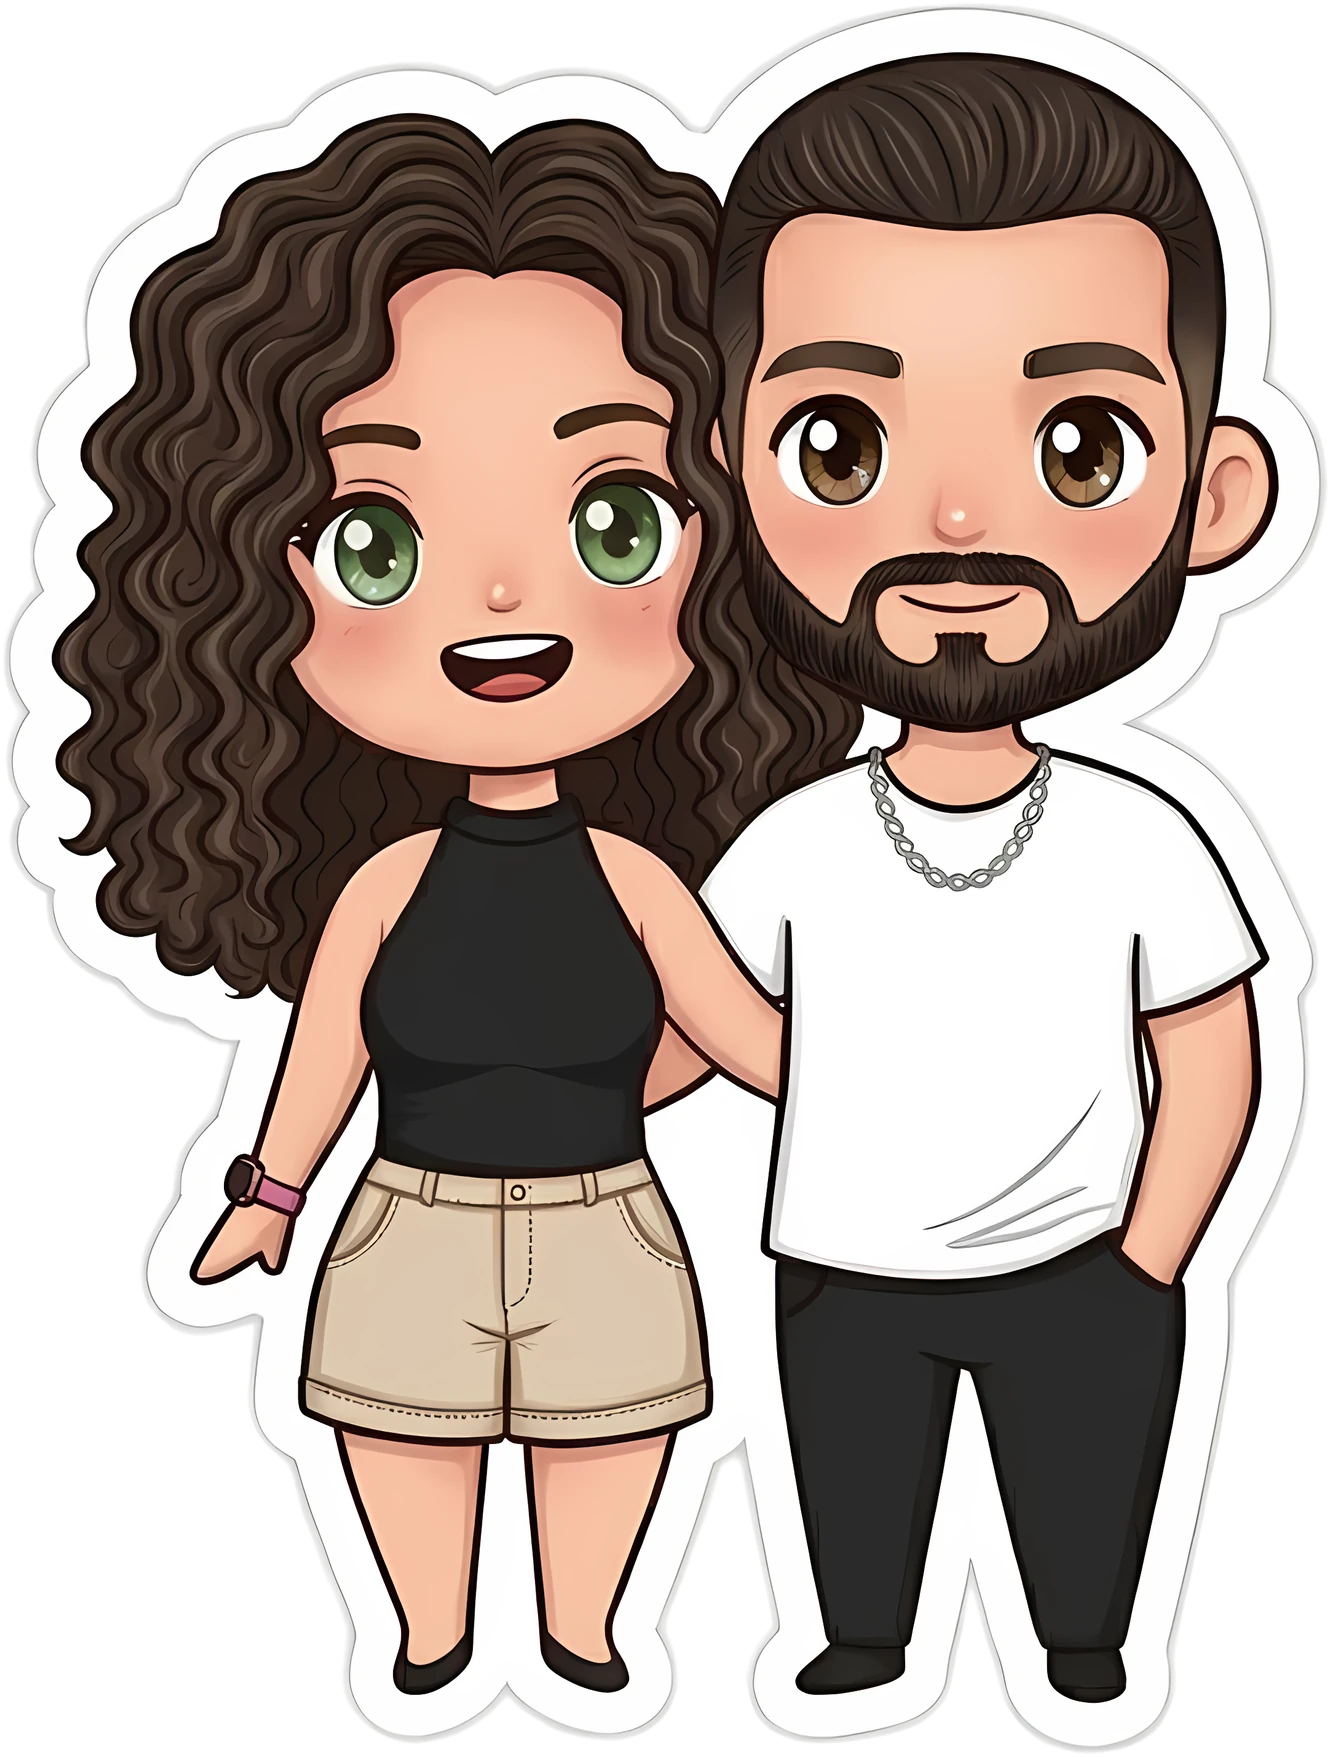
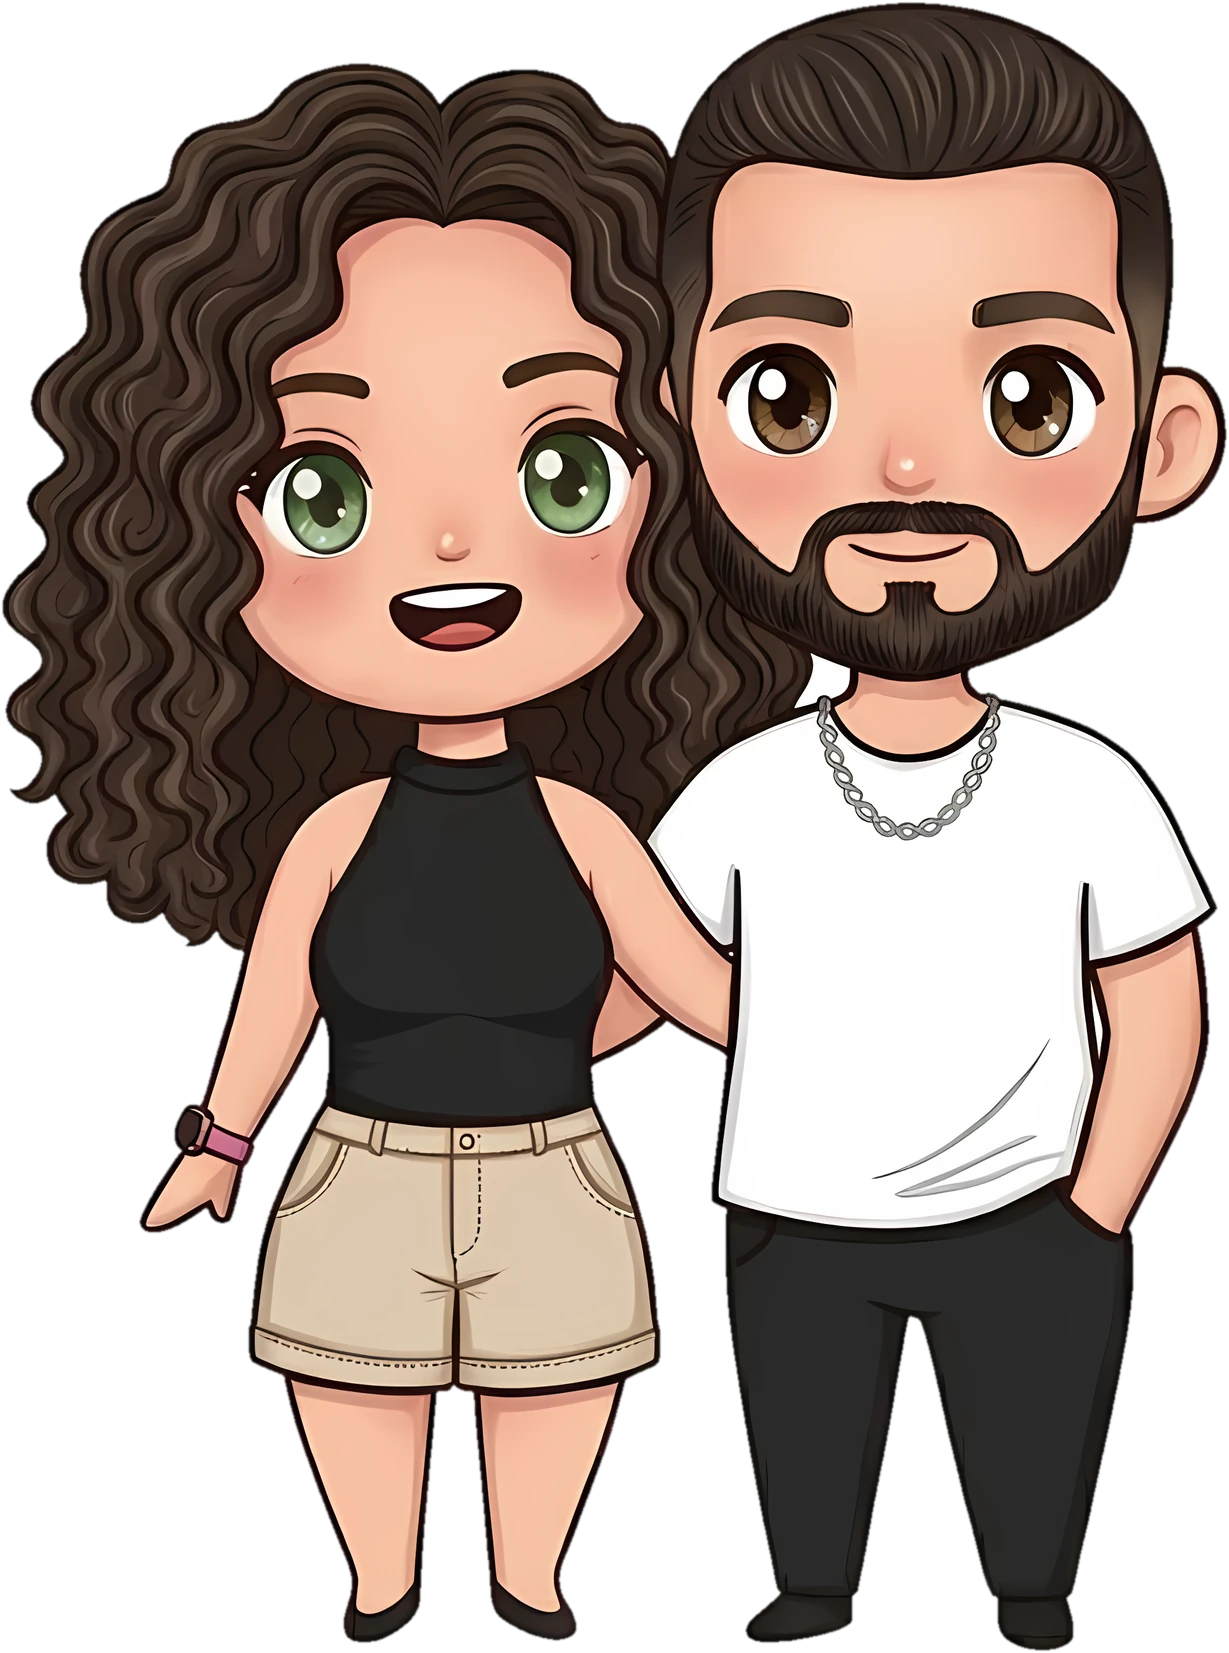
Fondo: imagen sin el borde blanco del sticker
Claude-Session: https://claude.ai/code/session_01LMZK85bQ5JCHh7utCTGme3

diff --git a/fondo.css b/fondo.css
@@ -4,8 +4,8 @@ html{background:var(--bg) !important;min-height:100%}
 body{background:transparent !important}
 html::before{
   content:"";position:fixed;inset:0;z-index:-1;pointer-events:none;
-  background:url("img/fondo-juntos.webp") center center no-repeat;
+  background:url("img/fondo-juntos.webp?v=2") center center no-repeat;
   /* grande y centrada: en el celu ocupa casi toda la pantalla, en la compu se limita por la altura */
-  background-size:min(105vw, 62vh * 0.757) auto;
+  background-size:min(105vw, 62vh * 0.743) auto;
   opacity:var(--fondo-opacidad);
 }
